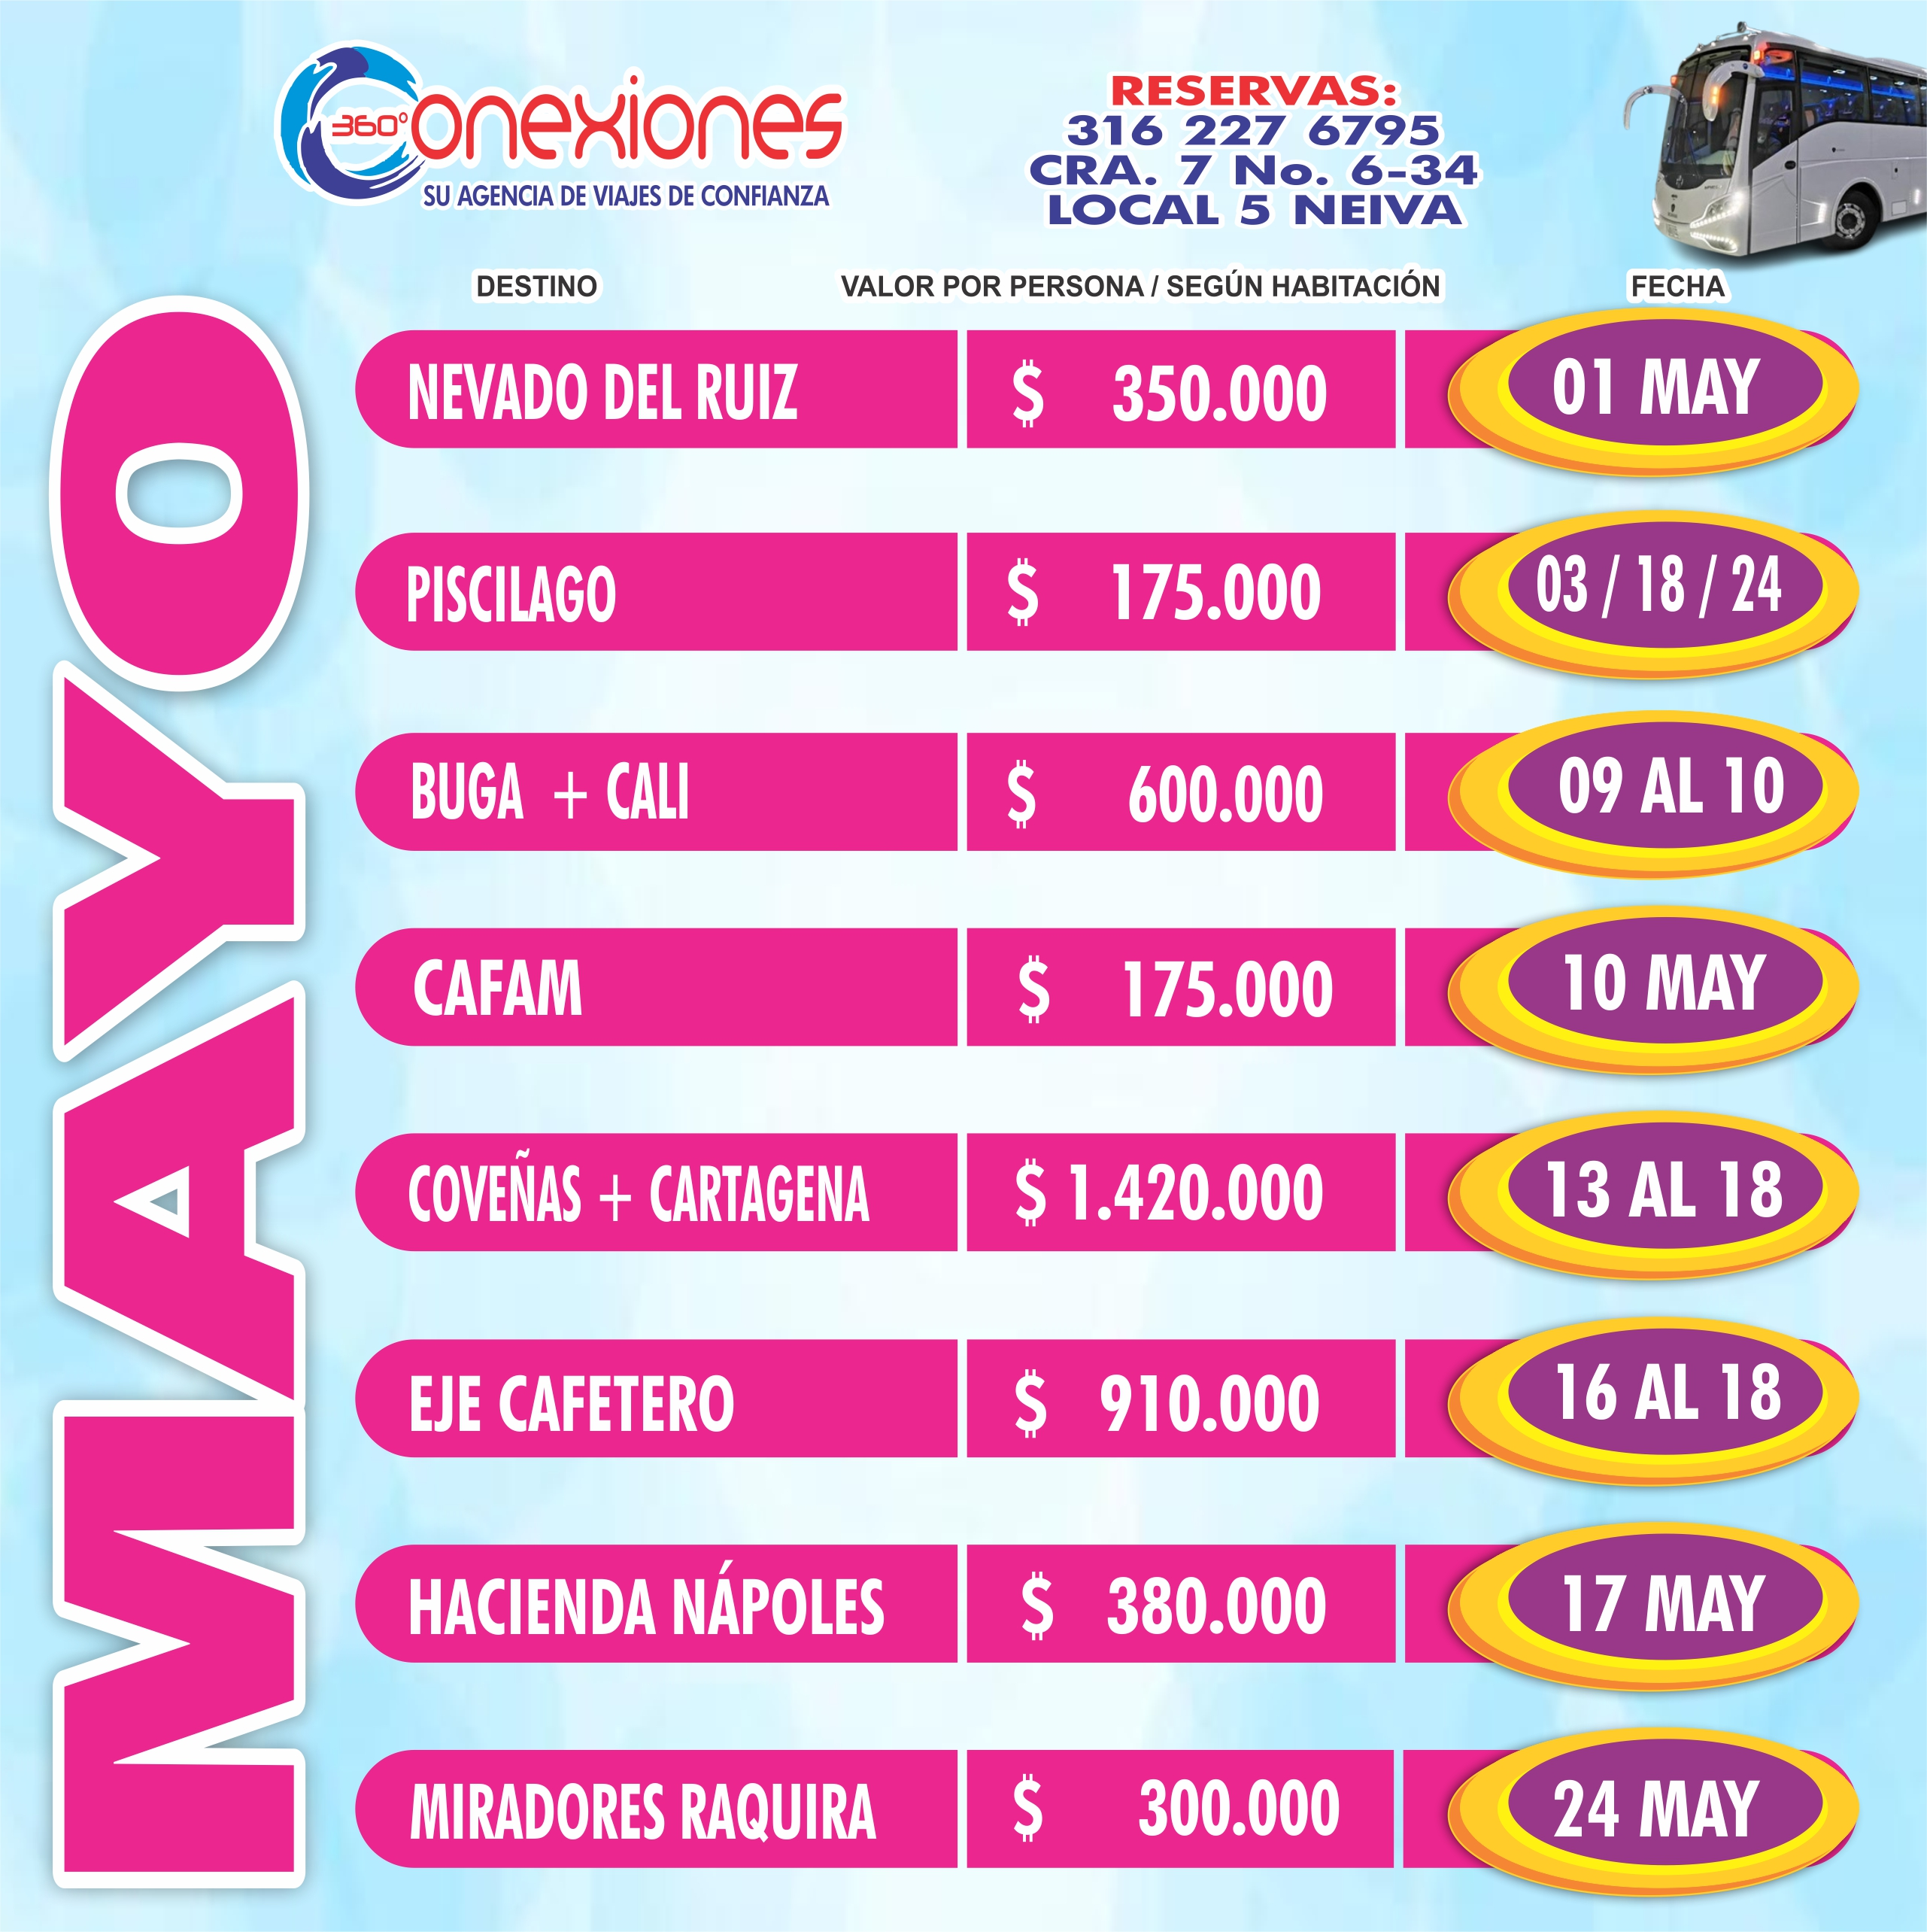
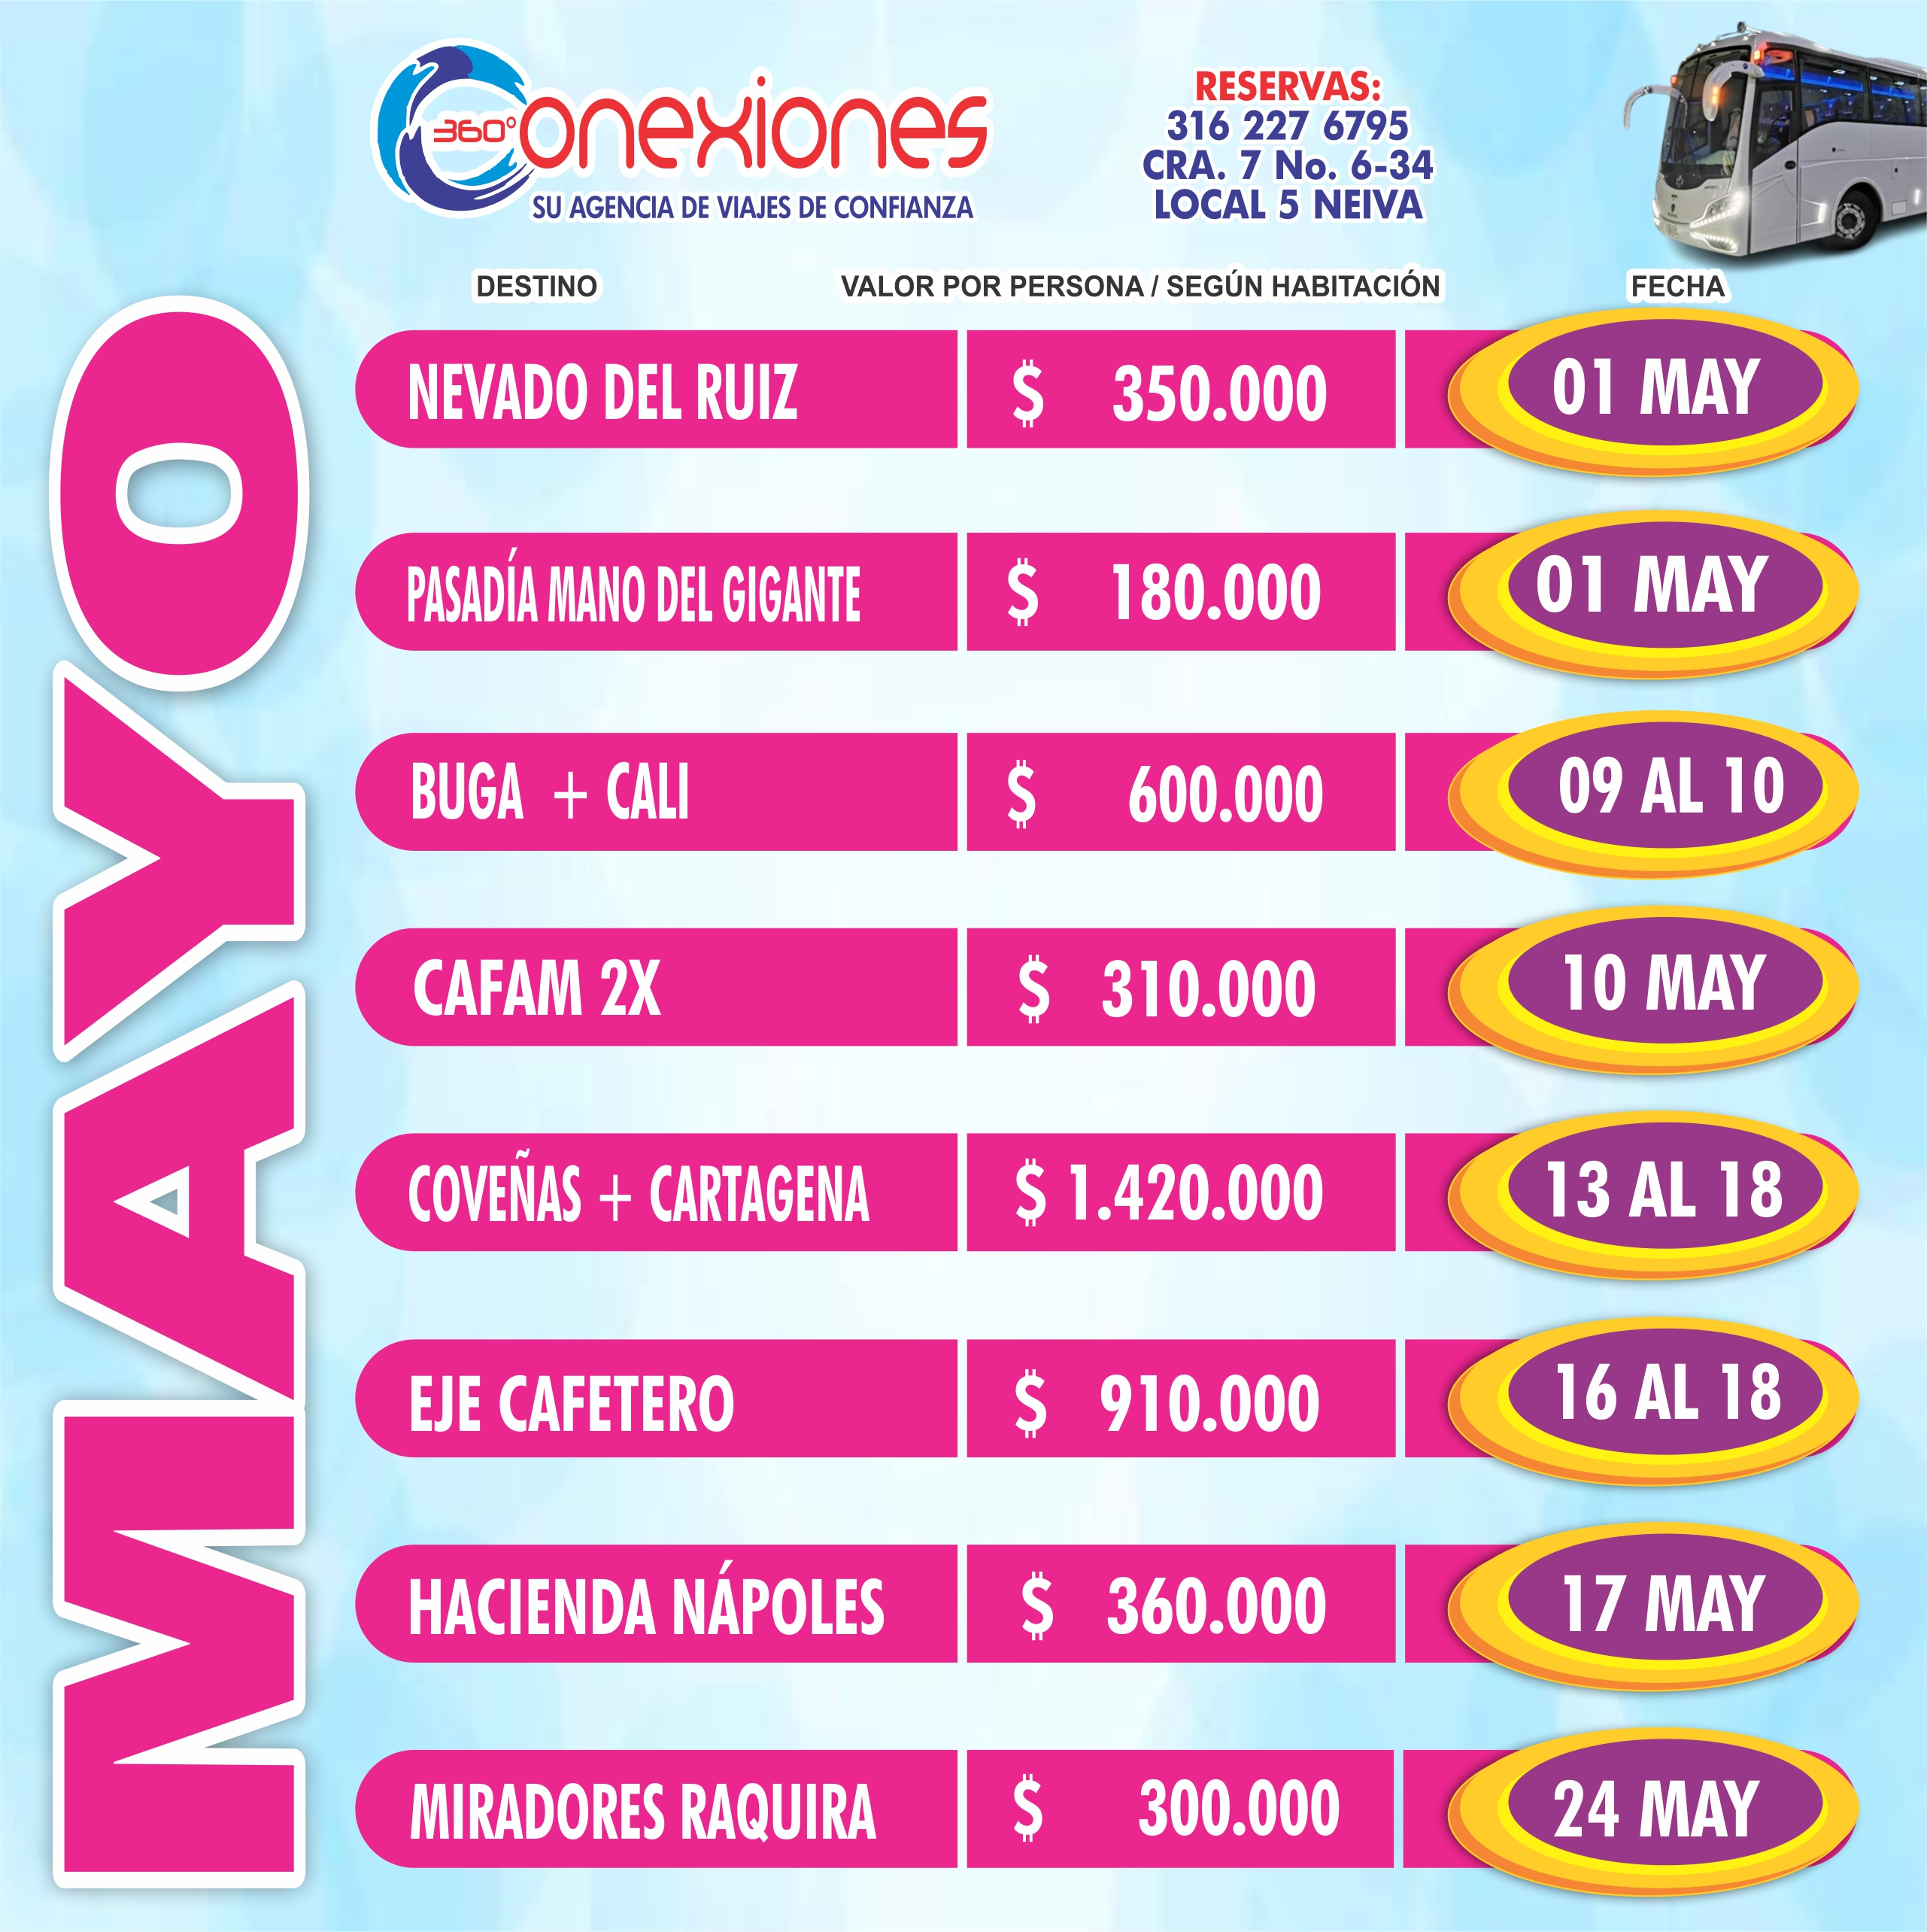
primeros cambios mayo2026

diff --git a/src/data/flyers/flyers.ts b/src/data/flyers/flyers.ts
@@ -482,21 +482,18 @@ export const flyers: FlyerPlan[] = [
     whatsappBase:
       "Hola Conexiones360, quiero información del plan Nevado del Ruiz",
   },
-              {
-    id: "piscilago-mayo",
+                {
+    id: "pasadiamanogigante-mayo",
     mes: "mayo",
     tipo: "terrestre",
-    titulo: "Piscilago Pasadía",
-    fechas: [
-      "Mayo 3",
-      "Mayo 18",
-      "Mayo 24",
-    ],
-    precio: 175000,
-    imagen: "/Mayo2026/piscilago.jpg",
+    titulo: "Pasadia Mano del Gigante",
+    fechas: ["Mayo 1"],
+    precio: 180000,
+    imagen: "/Mayo2026/manogigante.jpg",
     whatsappBase:
-      "Hola Conexiones360, quiero información del plan Piscilago Pasadía",
+      "Hola Conexiones360, quiero información del plan Nevado del Ruiz",
   },
+
             {
     id: "cafam-mayo",
     mes: "mayo",